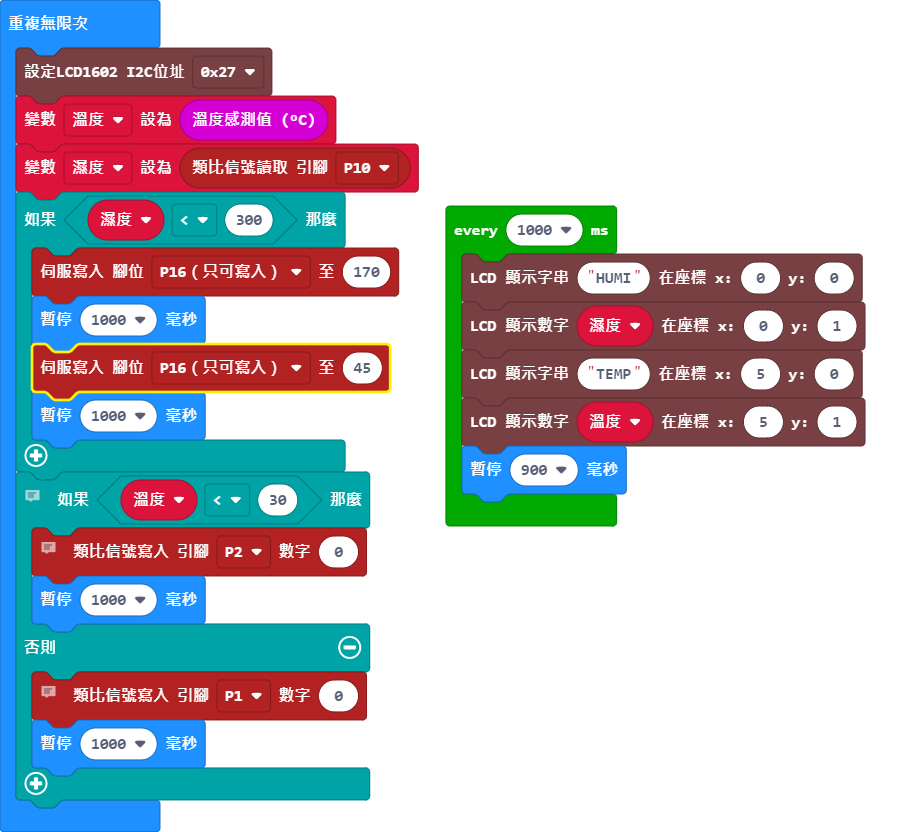
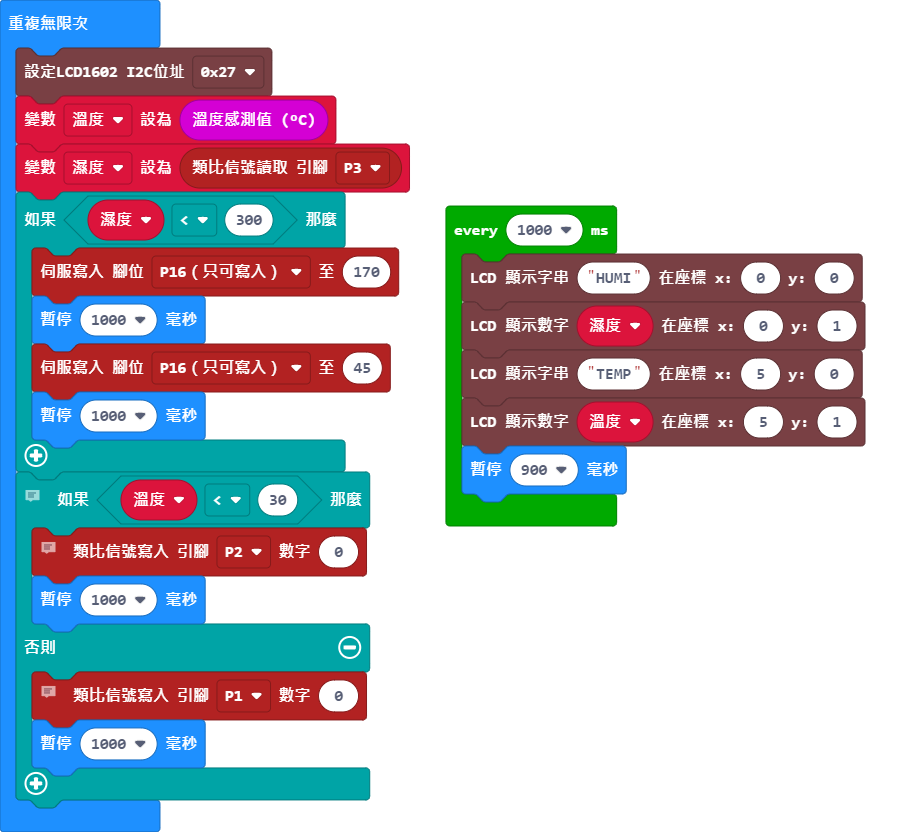
更新 main.blocks, main.ts

Changed region(s): [[0.0305, 0.4062, 0.4275, 0.5], [0.3969, 0.1562, 0.458, 0.25]]

diff --git a/main.ts b/main.ts
@@ -12,7 +12,7 @@ basic.forever(function () {
     lcd1602.I2C_ADDR.addr1
     )
     溫度 = input.temperature()
-    濕度 = pins.analogReadPin(AnalogPin.P10)
+    濕度 = pins.analogReadPin(AnalogPin.P3)
     if (濕度 < 300) {
         pins.servoWritePin(AnalogPin.P16, 170)
         basic.pause(1000)
